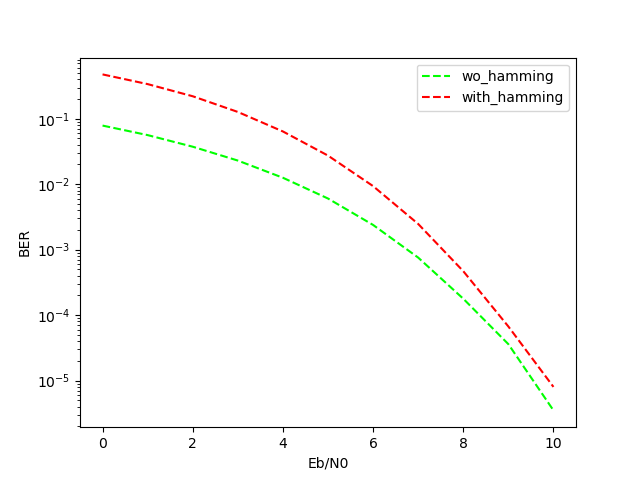
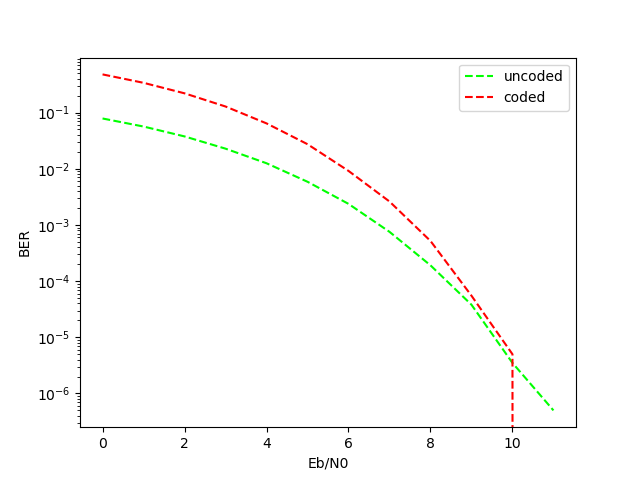
2nd version

diff --git a/hw1/hw1-2.cpp b/hw1/hw1-2.cpp
@@ -1,4 +1,5 @@
 #include <iostream>
+#include <iomanip>
 #include <cstring>
 #include <cstdlib>
 #include <cmath>
@@ -8,7 +9,7 @@
 using namespace std;
 
 #define LEN 1000000 // the length of bit
-#define EBN0 11
+#define EBN0 12
 
 #define M 3
 #define N 7
@@ -27,31 +28,44 @@ using namespace std;
 //     {1, 1, 0, 1, 0, 0, 1}
 // };
 
-int G[K][N] = {
-    {1, 0, 0, 0, 1, 1, 1},
-    {0, 1, 0, 0, 1, 1, 0},
-    {0, 0, 1, 0, 1, 0, 1},
-    {0, 0, 0, 1, 0, 1, 1}
-};
-
-int H[M][N] = {
-    {1, 1, 1, 0, 1, 0, 0},
-    {1, 1, 0, 1, 0, 1, 0},
-    {1, 0, 1, 1, 0, 0, 1}
-};
-
 // int G[K][N] = {
 //     {1, 1, 0, 1, 0, 0, 0},
 //     {0, 1, 1, 0, 1, 0, 0},
-//     {1, 1, 1, 0, 0, 1, 0},
-//     {1, 0, 1, 0, 0, 0, 1}
+//     {0, 0, 1, 1, 0, 1, 0},
+//     {0, 0, 0, 1, 1, 0, 1}
 // };
 
 // int H[M][N] = {
-//     {1, 0, 0, 1, 0, 1, 1},
+//     {1, 0, 1, 1, 1, 0, 0},
 //     {0, 1, 0, 1, 1, 1, 0},
 //     {0, 0, 1, 0, 1, 1, 1}
 // };
+
+// int G[K][N] = {
+//     {1, 0, 0, 0, 1, 1, 1},
+//     {0, 1, 0, 0, 1, 1, 0},
+//     {0, 0, 1, 0, 1, 0, 1},
+//     {0, 0, 0, 1, 0, 1, 1}
+// };
+
+// int H[M][N] = {
+//     {1, 1, 1, 0, 1, 0, 0},
+//     {1, 1, 0, 1, 0, 1, 0},
+//     {1, 0, 1, 1, 0, 0, 1}
+// };
+
+int G[K][N] = {
+    {1, 1, 0, 1, 0, 0, 0},
+    {0, 1, 1, 0, 1, 0, 0},
+    {1, 1, 1, 0, 0, 1, 0},
+    {1, 0, 1, 0, 0, 0, 1}
+};
+
+int H[M][N] = {
+    {1, 0, 0, 1, 0, 1, 1},
+    {0, 1, 0, 1, 1, 1, 0},
+    {0, 0, 1, 0, 1, 1, 1}
+};
 
 
 int random_message[LEN][K] = {0};
@@ -185,8 +199,8 @@ void channel_decoder()
 				after_demod[i][errorbit] = bitinvert(after_demod[i][errorbit]);
 			}
 		}
-		for (int j = 0; j < K; j++)
-			decoding_matrix[i][j] = after_demod[i][j];
+		for (int j = K-1, k = 0; j < N && k < K; j++, k++)
+			decoding_matrix[i][k] = after_demod[i][j];
 
 		for (int j = 0; j < M; j++)  
 			s[j] = 0;

diff --git a/hw1/plot_cmp.py b/hw1/plot_cmp.py
@@ -14,8 +14,8 @@ y2 = data2[1]
 plt.yscale("log")
 plt.xlabel('Eb/N0')
 plt.ylabel('BER')
-plt.plot(x1, y1,'r--', label='wo_hamming', color=(0, 255/255, 0))
-plt.plot(x2, y2,'r--', label='with_hamming')
+plt.plot(x1, y1,'r--', label='uncoded', color=(0, 255/255, 0))
+plt.plot(x2, y2,'r--', label='coded')
 plt.legend()
 plt.savefig("BER to Ebn0.png")
 plt.show()

diff --git a/hw1/hw1-1.cpp b/hw1/hw1-1.cpp
@@ -1,4 +1,5 @@
 #include <iostream>
+#include <iomanip>
 #include <cstring>
 #include <cstdlib>
 #include <cmath>
@@ -8,7 +9,7 @@
 using namespace std;
 
 #define LEN 4000000 // the length of bit
-#define EBN0 11
+#define EBN0 12
 
 int random_message[LEN] = {0};
 int after_mod[LEN] = {0};
